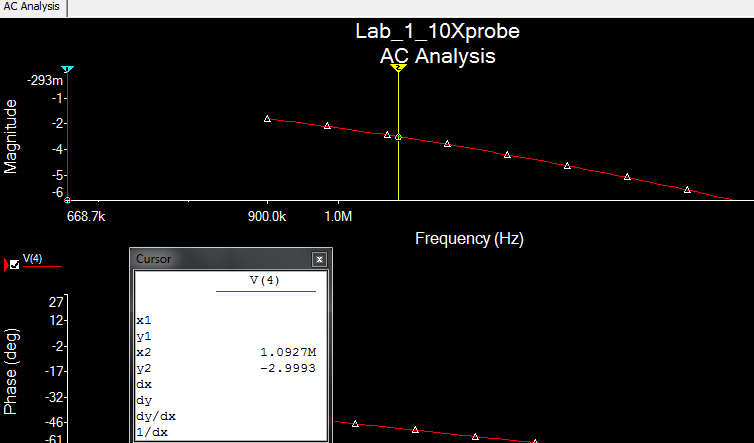
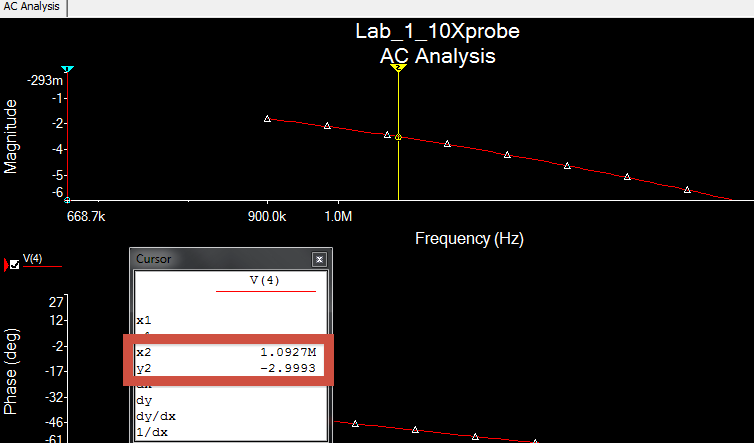
annotated the bode images. Added bodes and corner frequency images to the document. Still need to add fourier images and also the MATLAB source code

Changed region(s): [[0.1525, 0.7336, 0.4576, 0.8804]]

diff --git a/E153_1.tex b/E153_1.tex
@@ -4,6 +4,8 @@
 \usepackage{graphicx}
 \usepackage{amsmath}
 \usepackage[font=small,labelfont=bf]{caption}
+\newlength \figwidth
+\setlength \figwidth {0.75\linewidth}
 
 \begin{document}
 
@@ -75,7 +77,7 @@ Table \ref{table:SinWave} shows that the analog scope is favored for high freque
 	\begin{tabular}{| c | c |}
 	\hline
 	
-	BNC/Coax & 10X Probe \\
+	\textbf{BNC/Coax} & \textbf{10X Probe} \\
 	\hline
 	108 pF & 21 pF \\
 
@@ -148,33 +150,74 @@ $$ \text{C}_{\text{total}} = \frac{18 \text{pF} (53 \text{pF} + 20 \text{pF})}{1
 \end{table}
 \end{center}
 
+Note that for the 10x probe, the reactive and resistive loading magnitudes are equivalent at
+
+$$ \frac{1}{2 \pi f\text{C}_{\text{total}}} = 9 M\Omega \Rightarrow f = 1.22 kHz $$.
+
 \section*{Section B.2: The 10X Scope Probe}
+\subsection*{Procedure}
+\begin{enumerate}
+	\item Connect the function generator to the bread board using a BNC cable and splitter
+	\item Put a 10k$\Omega$ resisistor in series with the generator output
+	\item Connect a BNC cable from the resistor to the oscilloscope
+	\item Turn the function generator on and output a sine wave
+	\item Increase the frequency until the magnitude measured by the scope is 0.707 times that coming from the function generator (1 $\text{V}_{\text{pp}}$)
+	\item Record that frequency (which is the corner frequency)
+	\item Repeat the steps 3-5 for a 10x probe
+	\item Build the circuit models in ModelSim and run the simulation tool to verify the measured corner frequencies
+	\item Use MATLAB to estimate what a square wave and triangle wave would look like through each circuit at the corner frequency and 10x the corner frequency
+\end{enumerate}
 
-For the 10X probe:
-$$\text{C}_{\text{total}} = 14.4 \text{pF}$$
-$$ \frac{1}{\omega \text{C}_{\text{total}}} = 10\text{M}\Omega$$
-$$ \omega = 6.94 \text{kHz} $$
+\subsection*{Results}
 
-%
-%Measure the capacitance of a BNC/Coax probe: .108nF (.011nF is the splitter alone, multimeter always shows .004 or .005 nF)
-%
-%Measure the input capacitance of the 10X probe (Pomona 4550B): 
-%$C_{probe}$ = .013 nF
-%$C_{equiv}$ = .021nF
-%Sanity check: $C_{equiv}$ should work out to be $C_{probe}$ in series with $C_{BNC}$ (where $C_{BNC}$ = 0.053nF). 
-%
-%Nevermind, we ignore the capacitance due to the length of cable attached to the 10X probe.
-%
-% Experimental corner frequency for the BNC cable: 135 kHz (this is the frequency where the amplitude is .707)
-% Multisim: 122.7 kHz difference: BNC splitter introduces another capacitor, multisim model doesn't include that or the resistance from the cables
-% we measure the BNC splitter capacitance to verify: 12pF 
-% Square wave: back to 1Vpp (909 mV). 10x corner: 164.2 mV, turned a square wave into a triangle wave
-% Triangle: 678 mV (frequency limited (100kHz), can't scope it at corner frequency)
-%
-% Experimental corner frequency for the 10X probe:  (starting at 100mV) 1.15MHz
-% Multisim: difference:
-% square wave: 91.67 mV. 10x corner: 16.42 mV
-% triangle wave: frequency limited
-%
+\begin{figure}
+	\centering
+	\includegraphics[width=\linewidth, keepaspectratio=true]{lab1_images/BNC_sine_corner.png} 
+	\caption{Oscilloscope reading at corner frequency (135 kHz) for BNC cable in series with a 10k resistor. }
+	\label{fig:bnc_corner}
+\end{figure}
+
+\begin{figure}
+	\centering
+	\includegraphics[width=\linewidth, keepaspectratio=true]{lab1_images/10x_sine_corner.png} 
+	\caption{Oscilloscope reading at corner frequency (1.15 MHz) for 10x probe in series with a 10k resistor. }
+	\label{fig:probe_corner}
+\end{figure}
+
+Figure \ref{fig:bnc_circuit} shows the model used for the BNC circuit (a low pass filter), and Figure \ref{fig:bnc_corner} shows the oscilloscope reading at the corner frequency (135 kHz). Similarly, Figure \ref{fig:probe_circuit} shows the model for the 10x probe circuit, and Figure \ref{fig:probe_corner} shows the scope reading at the corner frequency (1.15 MHz).
+
+\begin{figure}
+	\centering
+	\includegraphics[width=\figwidth, keepaspectratio=true]{lab1_images/BNC_bode.png} 
+	\caption{Multisim created Bode Plot for the BNC circuit. The information box summarizes the onscreen marker - y2 is in dB and x2 is in Hz. }
+	\label{fig:bnc_bode}
+\end{figure}
+
+\begin{figure}
+	\centering
+	\includegraphics[width=\figwidth, keepaspectratio=true]{lab1_images/10x_bode.png} 
+	\caption{Multisim created Bode Plot for the 10x probe circuit. The information box summarizes the onscreen marker - y2 is in dB and x2 is in Hz. }
+	\label{fig:probe_bode}
+\end{figure}
+
+Figures \ref{fig:bnc_bode} and \ref{fig:probe_bode} show the bode plots, produced by MultiSim, for the BNC circuit and the 10x scope circuit respectively. Figures \ref{fig:bnc_circuit} and \ref{fig:probe_circuit} show the MultiSim circuits which correspond to these bode plots. Table \ref{table:corners} summarizes the expected and measured corner frequencies for the two circuits.
+
+\begin{center}
+\begin{table}[ht]
+\caption{Corner Frequencies (expected and estimated)}
+\centering 
+	\begin{tabular}{| c | c | c |}
+	\hline
+	& \textbf{BNC/Coax} & \textbf{10X Probe} \\
+	\hline
+	\textbf{Expected} & 122 kHz & 1.09 MHz \\
+	\textbf{Measured} & 135 kHz & 1.15 MHz \\
+	\hline
+	\end{tabular}
+	\label{table:corners}
+\end{table}
+\end{center}
+
+The measured corner frequencies for the BNC and 10x probe circuits are 10\% and 6\% greater than expected respectively. These differences can be partially attributed to the fact that our model does not take the connecting cable between the function generator and bread board into account, which has a non-neglible capacitance. Similarly, the BNC splitters used to connect components of the circuit also have a non-zero capacitance that would affect the measured corner frequency.
 
 \end{document}
